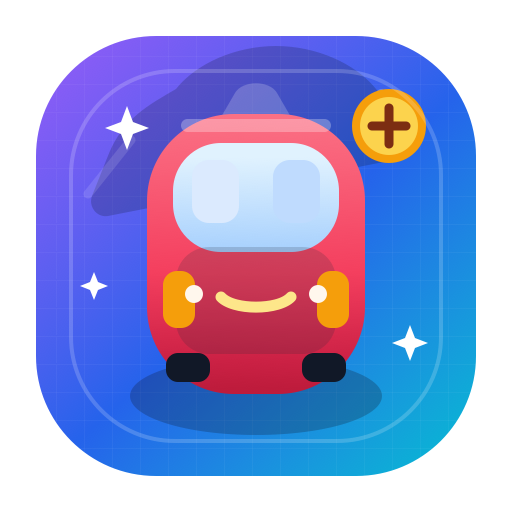
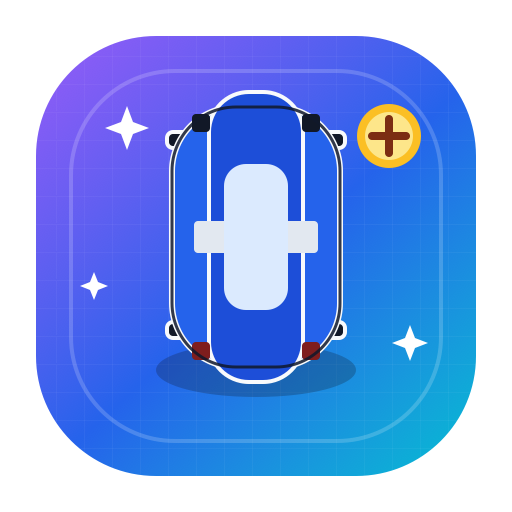
Deduplicate cloneRect in pickupSpawnRuntime; regenerate branding PNGs
Remove local cloneRect copy from pickupSpawnRuntime.ts (now imports
from gameRuntime.ts). Regenerate all icon and marketplace PNGs from
refreshed SVGs via npm run brand.

Made-with: Cursor

diff --git a/src/game/pickupSpawnRuntime.ts b/src/game/pickupSpawnRuntime.ts
@@ -1,6 +1,7 @@
 import type { Rect, Vector2, ViewportSize, WorldPickup } from '../shared/types';
 import { clamp, rectsIntersect } from '../shared/utils';
 import {
+  cloneRect,
   PLANE_LANE_SPECIAL_STAGGER_MS,
   randomBetween,
   REGULAR_COIN_LOW_PRESSURE_THRESHOLD,
@@ -335,11 +336,3 @@ export function resolveRegularCoinSpawnStep(options: {
   };
 }
 
-function cloneRect(rect: Rect): Rect {
-  return {
-    x: rect.x,
-    y: rect.y,
-    width: rect.width,
-    height: rect.height,
-  };
-}

diff --git a/SOUL.md b/SOUL.md
@@ -198,6 +198,7 @@ Completed:
 - Release build profile (sourcemaps off), permissions doc, release checklist
 - No `__domRacerDebug` in source or build
 - Duplicate `parseCssColor`/`rgbToHsl` extracted from domScanner and main into `src/shared/color.ts`
+- Duplicate `cloneRect` removed from `pickupSpawnRuntime.ts`; now imports from `gameRuntime.ts`
 
 ## Phase 6: README / Presentation
 
@@ -222,7 +223,7 @@ Completed:
 - [x] Updated `dom-racer-store-cover.svg` to show the real car in gameplay context
 - [x] Top-down perspective consistent with in-game look (body #2563EB, roof #1D4ED8, wheels #111827 with #F8FAFC border)
 - [x] Updated `generate_assets.py` to read SVGs from disk instead of embedding duplicate strings
-- [ ] Regenerate PNGs via `npm run brand` (requires macOS `sips` tool)
+- [x] Regenerated PNGs via `npm run brand` (icon16–512, promo tile, store cover)
 
 ## Practical Learnings
 
@@ -244,6 +245,14 @@ When this roadmap is working, a good run should feel like this:
 - mid game: more routing decisions, specials, rising police pressure
 - late game: overgrown map, tighter routes, high-score tension
 - failure: stylish and readable, with immediate desire to retry
+
+## Session Notes
+
+### Session — 2026-03-12
+
+- Deduplicated `cloneRect` from `pickupSpawnRuntime.ts` (now imports from `gameRuntime.ts`)
+- Regenerated all branding PNGs via `npm run brand` (icon16–512, promo tile 440x280, store cover 1280x800)
+- 32 tests pass, build clean, no `__domRacerDebug` in source or dist
 
 ## Notes For Future Models
 
